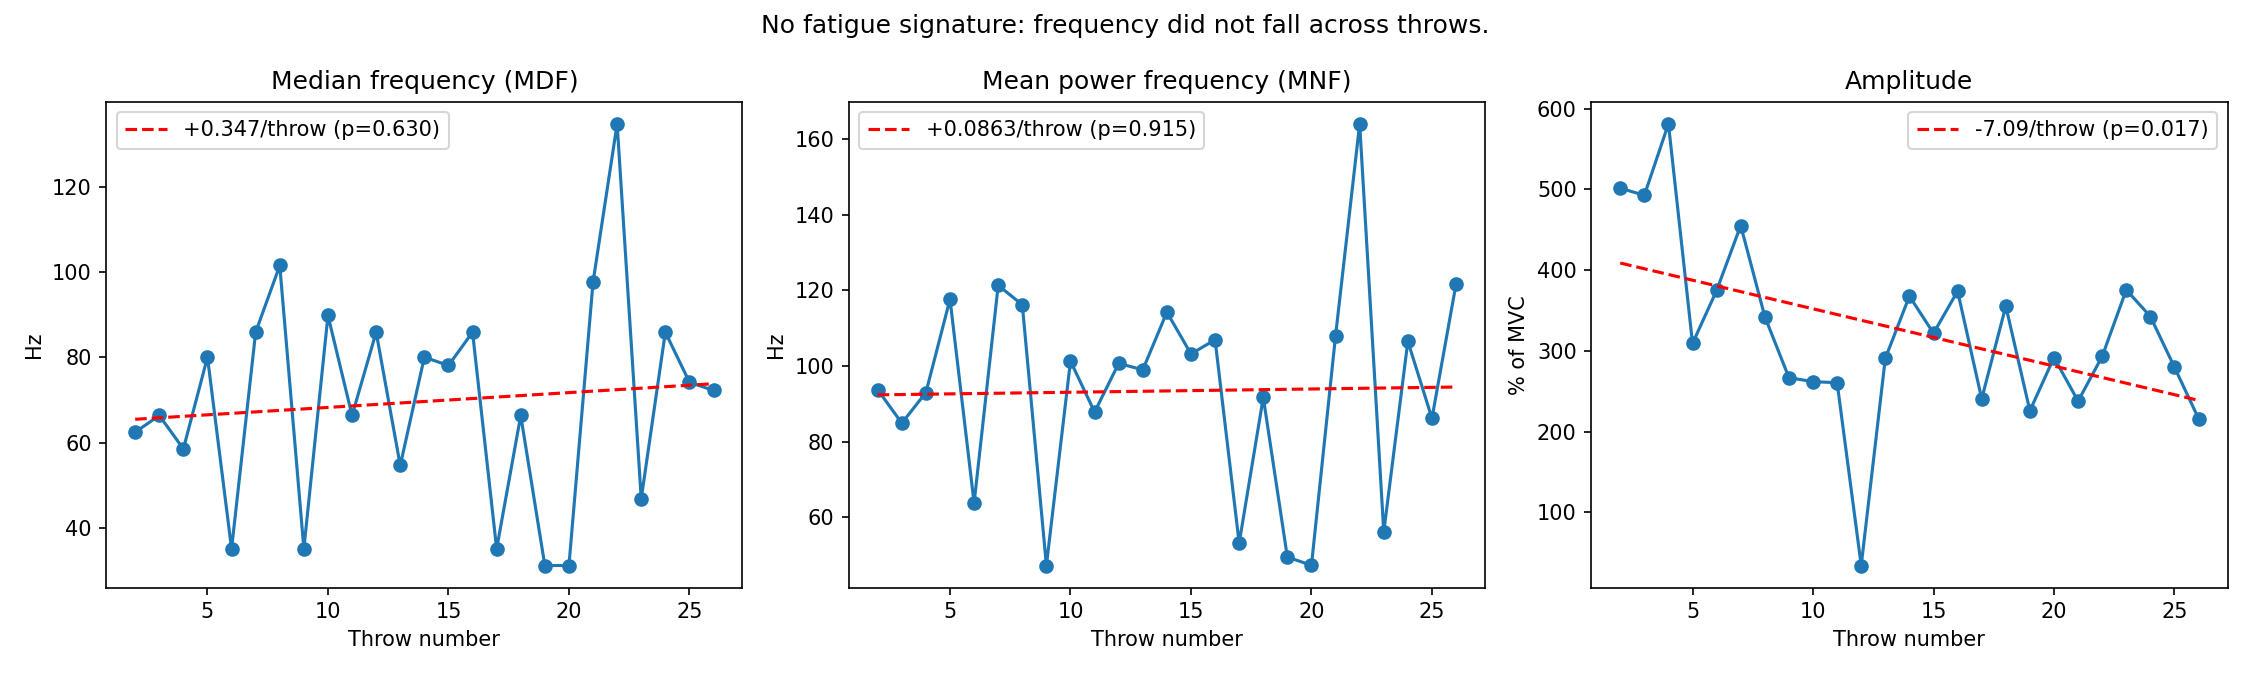
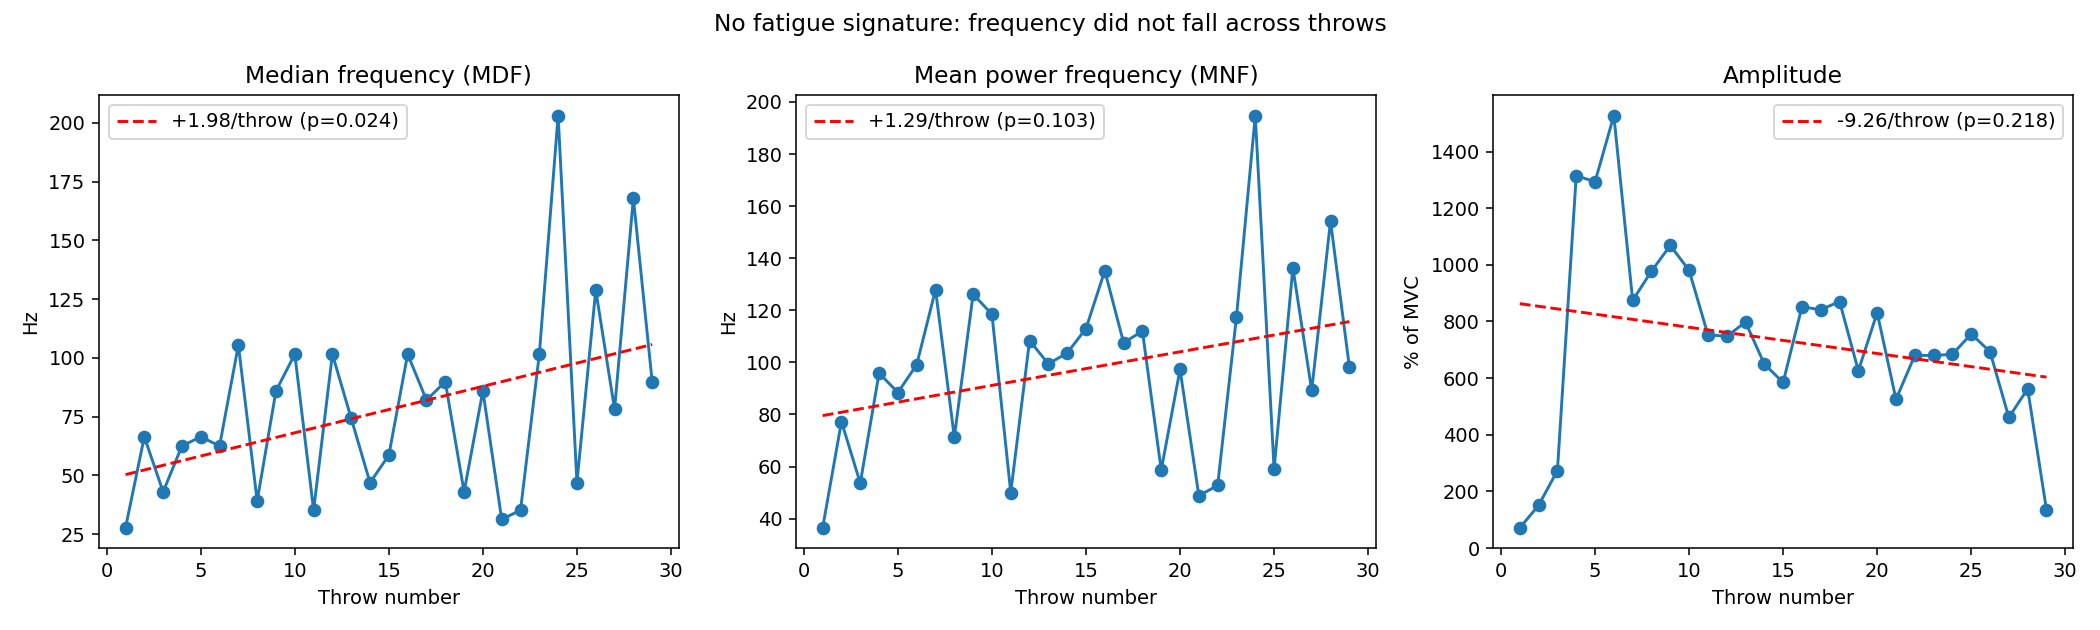
Add b.py: spike-based throw and MVC detection

diff --git a/b.py b/b.py
@@ -1,0 +1,174 @@
+"""
+sEMG throw/MVC detection and fatigue analysis - pronator teres, baseball throwing.
+
+Each event is one LabScribe recording block (the elapsed-Time column restarts at
+every new recording), so detection needs no amplitude threshold and transfers to
+other people's files unchanged.
+
+The throw instant is the largest excursion of the band-passed signal (the raw
+signal peak). The envelope is used only to measure how long the muscle stays
+active, which is what separates a brief throw from a sustained MVC.
+"""
+import datetime
+import numpy as np
+import pandas as pd
+import matplotlib.pyplot as plt
+import openpyxl
+from scipy.signal import butter, sosfiltfilt, iirnotch, filtfilt, welch
+from scipy.stats import linregress
+
+# ================= Settings (measured from this file) =================
+FILE = "sEMG&IMU_Oct_21.xlsx"
+
+AA_CUTOFF = 500          # Hz anti-aliasing low-pass, auto-capped at 0.9*Nyquist per block
+LOW, HIGH, ORDER = 20, 450, 4    # Hz Butterworth band-pass, HIGH auto-capped per block
+NOTCH_60 = False         # measured: no mains hum (60 Hz power 0.3-3.0x its neighbours)
+
+MIN_EVENT_S = 5.0        # ignore recording blocks shorter than this
+MVC_MIN_ACTIVE_S = 10  # >= this much continuous activity means MVC, not throw
+ENV_HZ = 5               # envelope smoothing, used only to measure active duration
+ACTIVE_FRAC = 0.25       # "active" = envelope above this fraction of the block's peak
+FIRST_EVENT_BLOCK = 3    # blocks 1-2 are setup; event numbering starts here
+WIN_S = 0.5              # analysis window centred on the peak, for MDF/MNF/RMS
+
+
+def main():
+    # ---------- Load (TimeOfDay holds real Excel time values, not text) ----------
+    ws = openpyxl.load_workbook(FILE, read_only=True, data_only=True)["in"]
+    tod, el, raw = [], [], []
+    for r in ws.iter_rows(values_only=True):
+        a, b, c = r[0], r[1], r[2]
+        if not isinstance(a, datetime.time):
+            continue                                  # header row between recordings
+        try:
+            el.append(float(b)); raw.append(float(c))
+        except (TypeError, ValueError):
+            continue
+        tod.append(a.hour * 3600 + a.minute * 60 + a.second + a.microsecond / 1e6)
+    tod, el, raw = np.array(tod), np.array(el), np.array(raw)
+    t0 = tod[0]
+    clock = lambda s: (datetime.datetime(2000, 1, 1)
+                       + datetime.timedelta(seconds=float(s))).strftime("%H:%M:%S.%f")[:-3]
+    lapse = lambda s: f"{int((s - t0) // 60):02d}:{(s - t0) % 60:05.2f}"
+    print(f"{len(raw)} samples, {clock(tod[0])} to {clock(tod[-1])}")
+
+    # ---------- Events = recording blocks ----------
+    edges = [0] + list(np.where(np.diff(el) <= 0)[0] + 1) + [len(el)]
+    print(f"{len(edges)-1} recording blocks\n")
+
+    rows, traces = [], []
+    nt = nm = 0
+    for k in range(len(edges) - 1):
+        s, e = edges[k], edges[k + 1]
+        d = np.diff(el[s:e]); d = d[d > 0]
+        if len(d) == 0:
+            continue
+        fs = int(round(1 / np.median(d)))     # per block: this file mixes 1000 and 2000 Hz
+        t = el[s:e] - el[s]
+        if t[-1] < MIN_EVENT_S:
+            continue
+        hi = min(HIGH, 0.45 * fs)
+
+        x = raw[s:e] - raw[s:e].mean()                                    # 1. DC offset
+        x = sosfiltfilt(butter(4, min(AA_CUTOFF, 0.9 * fs / 2), "lowpass",
+                               fs=fs, output="sos"), x)                   # 2. anti-aliasing
+        y = sosfiltfilt(butter(ORDER, [LOW, hi], "bandpass",
+                               fs=fs, output="sos"), x)                   # 3. band-pass
+        if NOTCH_60:                                                      # 4. mains notch
+            bn, an = iirnotch(60, Q=30, fs=fs)
+            y = filtfilt(bn, an, y)
+
+        env = np.clip(sosfiltfilt(butter(4, ENV_HZ, "lowpass", fs=fs, output="sos"),
+                                  np.abs(y)), 0, None)
+        active = (env > ACTIVE_FRAC * env.max()).sum() / fs
+
+        p = int(np.argmax(np.abs(y)))                 # the throw instant: raw signal peak
+        h = int(WIN_S * fs / 2)
+        if active >= MVC_MIN_ACTIVE_S:
+            on = np.where(env > ACTIVE_FRAC * env.max())[0]
+            w = y[on[0]:on[-1] + 1]                   # MVC: the whole sustained hold
+        else:
+            w = y[max(0, p - h):min(len(y), p + h)]   # throw: fixed window on the peak
+        f, pw = welch(w, fs=fs, nperseg=min(512, len(w)))
+        m = (f >= LOW) & (f <= hi); f, pw = f[m], pw[m]
+        cum = np.cumsum(pw)
+
+        if k + 1 < FIRST_EVENT_BLOCK:
+            kind, num = "Setup", 0
+        elif active >= MVC_MIN_ACTIVE_S:
+            nm += 1; kind, num = "MVC", nm
+        else:
+            nt += 1; kind, num = "Throw", nt
+
+        rows.append(dict(block=k + 1, kind=kind, number=num, fs=fs,
+                         peak_elapsed=lapse(tod[s] + t[p]), peak_clock=clock(tod[s] + t[p]),
+                         peak_val=round(y[p], 3), active_s=round(active, 2),
+                         mdf_hz=f[np.searchsorted(cum, cum[-1] / 2)],
+                         mnf_hz=np.sum(f * pw) / np.sum(pw),
+                         rms=np.sqrt(np.mean(w ** 2)),
+                         mvc_ref=(np.sqrt(np.convolve(w ** 2, np.ones(min(len(w), fs))
+                                                      / min(len(w), fs), "valid").max())
+                                  if active >= MVC_MIN_ACTIVE_S else np.nan)))
+        traces.append((tod[s] - t0, t, y, env, kind, num))
+
+    tab = pd.DataFrame(rows)
+    mv = tab[tab["kind"] == "MVC"]
+    if len(mv):
+        tab["pct_mvc"] = tab["rms"] / mv["mvc_ref"].max() * 100   # strongest MVC, peak 1 s RMS
+    tab.to_csv("semg_events.csv", index=False)
+    print(tab.round(3).to_string(index=False))
+    print(f"\n{nt} throws, {nm} MVC")
+
+    # ---------- Fatigue trend ----------
+    th = tab[tab["kind"] == "Throw"].reset_index(drop=True)
+    amp = "pct_mvc" if "pct_mvc" in tab else "rms"
+    fits = {}
+    print("\nTrend across throws (falling MDF and MNF = fatigue):")
+    for c in ("mdf_hz", "mnf_hz", amp):
+        lr = linregress(th["number"], th[c])
+        fits[c] = lr
+        print(f"  {c:8s}: {lr.slope:+.3f}/throw, p = {lr.pvalue:.3f}, R2 = {lr.rvalue**2:.2f}")
+    down = fits["mdf_hz"].slope < 0 and fits["mnf_hz"].slope < 0
+    sig = min(fits["mdf_hz"].pvalue, fits["mnf_hz"].pvalue) < 0.05
+    verdict = ("Fatigue: MDF and MNF both fall significantly" if down and sig else
+               "Possible fatigue: both fall, not significantly" if down else
+               "No fatigue signature: frequency did not fall across throws")
+    print("\n" + verdict)
+
+    # ---------- Figures ----------
+    fig, ax = plt.subplots(2, 1, figsize=(16, 7), sharex=True)
+    ymax = max(e.max() for _, _, _, e, _, _ in traces)
+    for off, t, y, env, kind, num in traces:
+        c = {"MVC": "tab:red", "Throw": "tab:blue", "Setup": "tab:gray"}[kind]
+        st = max(1, len(t) // 2000)
+        ax[0].plot(off + t[::st], y[::st], color=c, lw=0.4)
+        ax[1].plot(off + t[::st], env[::st], color=c, lw=0.8)
+        if kind != "Setup":
+            ax[1].text(off + t[len(t) // 2], ymax * 1.02,
+                       f"{'M' if kind == 'MVC' else ''}{num}",
+                       ha="center", fontsize=6, rotation=90, color=c)
+    ax[0].set_title(f"Filtered sEMG: {nt} throws (blue), {nm} MVC (red)")
+    ax[0].set_ylabel("Amplitude")
+    ax[1].set_title("Envelope per recording block")
+    ax[1].set_xlabel("Time from start of session (s)")
+    ax[1].set_ylim(0, ymax * 1.2)
+    fig.tight_layout(); fig.savefig("semg_events.png", dpi=140)
+
+    fig2, a2 = plt.subplots(1, 3, figsize=(15, 4.5))
+    lab = {"mdf_hz": ("Median frequency (MDF)", "Hz"),
+           "mnf_hz": ("Mean power frequency (MNF)", "Hz"),
+           "pct_mvc": ("Amplitude", "% of MVC"), "rms": ("Amplitude (RMS)", "")}
+    for a, c in zip(a2, ("mdf_hz", "mnf_hz", amp)):
+        a.plot(th["number"], th[c], "o-", color="tab:blue")
+        xs = th["number"].to_numpy()
+        a.plot(xs, fits[c].intercept + fits[c].slope * xs, "r--",
+               label=f"{fits[c].slope:+.3g}/throw (p={fits[c].pvalue:.3f})")
+        a.legend(); a.set_title(lab[c][0]); a.set_xlabel("Throw number"); a.set_ylabel(lab[c][1])
+    fig2.suptitle(verdict)
+    fig2.tight_layout(); fig2.savefig("semg_fatigue.png", dpi=140)
+    print("\nSaved semg_events.csv, semg_events.png, semg_fatigue.png")
+    plt.show()
+
+
+if __name__ == "__main__":
+    main()
